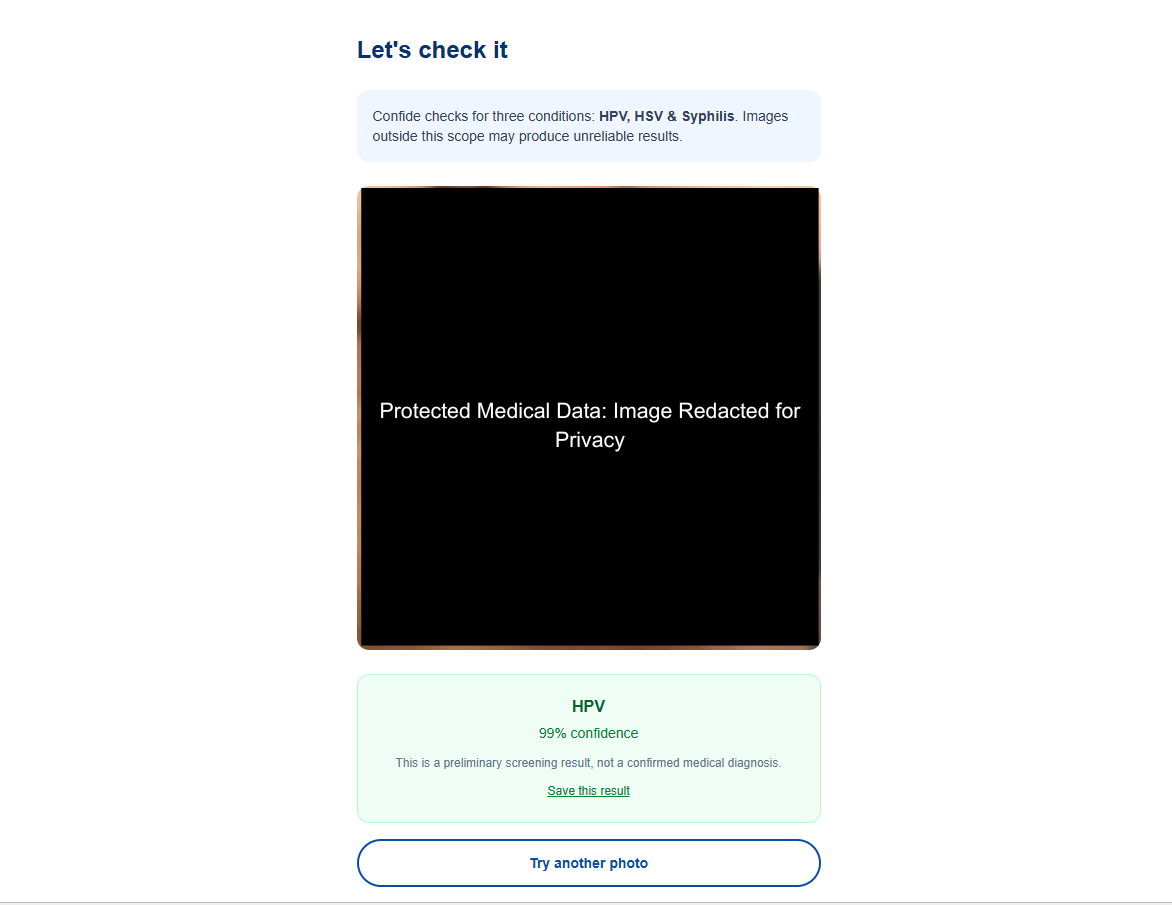
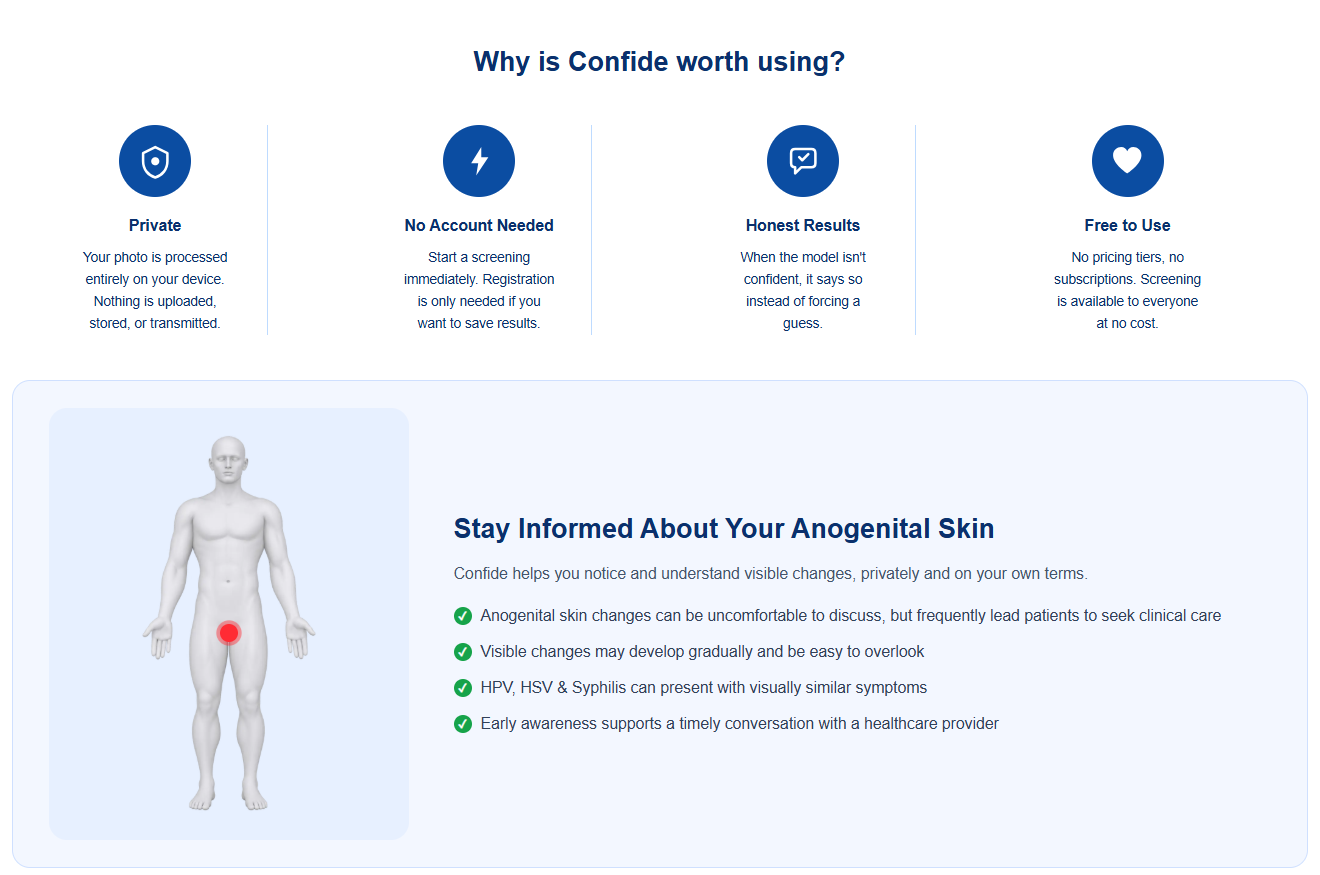
Update README to reflect GitHub Pages deployment; update project images

diff --git a/app/page.tsx b/app/page.tsx
@@ -354,15 +354,15 @@ export default function Home() {
               title="FIFA 2026 World Cup Bracket Challenge"
               desc="A full-stack prediction platform built with the MERN stack in TypeScript."
               tags={["MERN", "Typescript", "Docker","	football-data.org API"]}
-              projectImages={["/fifa1.jpg", "/fifa2.jpg", "/fifa3.jpg"]}
-              imageAlt="FixTrack project screenshots"
+              projectImages={["/fifa1.jpg", "/fifa2.png", "/fifa3.png","/fifa4.png"]}
+              imageAlt="FIFA 2026 World Cup Bracket Challenge project screenshots"
             />
             <ProjectCard
               title="Confide - Private STI Screening for Men"
               desc="A Privacy-Preserving Deep Learning System for Preliminary Visual Screening of Male Anogenital Sexually Transmitted Infections."
               tags={["Transfer Learning","Convolutional Neural Network", "FastAPI", "Tensorflow.js"]}
-              projectImages={["/confide1.png", "/confide2.png", "/confide3.png"]}
-              imageAlt="FixTrack project screenshots"
+              projectImages={["/confide1.png", "/confide2.png", "/confide3.png", "/confide4.png"]}
+              imageAlt="Confide project screenshots"
             />
             <ProjectCard
               title="FixTrack - Vehicle Service Platform"
@@ -385,15 +385,7 @@ export default function Home() {
               projectImages={["/soc1.png", "/soc2.png", "/soc3.png","/soc4.png"]}
               imageAlt="SPC Pharmacy Network project screenshots"
             />
-
-            <ProjectCard
-              title="LuxeVista Resort - Mobile App (Android studio)"
-              desc="Mobile app concept for resort browsing, booking support, and smoother user experience "
-              tags={[ "Java", "XML", "MySQL"]}
-              projectImages={["/luxe1.jpg", "/luxe2.jpg"]}
-              imageAlt="LuxeVista Resort project screenshots"
-            />
-
+            
             <ProjectCard
               title="FitZone Fitness Center - Web App"
               desc="Web application for fitness center operations and member-facing features."
@@ -416,7 +408,7 @@ export default function Home() {
           <p className="bg-gradient-to-r from-white to-cyan-400 bg-clip-text font-semibold text-white transition group-hover:text-transparent">
             BSc (Hons) in Software Engineering (Reading)
           </p>
-          <p className="text-sm text-zinc-500">Cardiff Metropolitan Unviversity (Reading) </p>
+          <p className="text-sm text-zinc-500">Cardiff Metropolitan University (Reading) </p>
         </div>
       </div>
 
@@ -427,7 +419,7 @@ export default function Home() {
         <p className="bg-gradient-to-r from-white via-pink-400 to-cyan-400 bg-clip-text font-semibold text-white transition group-hover:text-transparent">
           HND in Computing & Software Engineering
         </p>
-          <p className="text-sm text-zinc-500">Cardiff Metropolitan Unviversity </p>
+          <p className="text-sm text-zinc-500">Cardiff Metropolitan University </p>
         </div>
       </div>
 

diff --git a/README.md b/README.md
@@ -1,37 +1,36 @@
 **Personal Portfolio Website**
-
+ 
 This repository contains the source code for my professional portfolio website. It serves as a central hub to showcase my technical skills, personal projects, and professional journey as a developer.
-
-[![Vercel](https://img.shields.io/badge/Live_Demo-000000?style=for-the-badge&logo=vercel&logoColor=white)](https://nisith-portfolio.vercel.app/)
-
+ 
+[![Live Site](https://img.shields.io/badge/Live_Demo-000000?style=for-the-badge&logo=githubpages&logoColor=white)](https://nisithsaranga.dev/)
+ 
 **🚀 Overview**
-
+ 
 The goal of this project was to create a fast, responsive, and modern portfolio that reflects my focus on clean UI/UX and efficient frontend code. It highlights my expertise in building interactive web experiences and managing end-to-end development.
-
+ 
 **🛠 Tech Stack**
-
-Frontend: Next.js with TypeSccript
-
+ 
+Frontend: Next.js with TypeScript
+ 
 Styling: Tailwind CSS 
-
-Deployment: Vercel (CI/CD integrated with GitHub)
-
+ 
+Deployment: GitHub Pages (custom domain, CI/CD via GitHub Actions)
+ 
 Tools: NPM, Git, VS Code
-
+ 
 **✨ Key Features**
-
+ 
 Responsive Design: Fully optimized for mobile, tablet, and desktop screens.
-
+ 
 Project Showcase: A curated gallery of my work with links to live demos and source code.
-
+ 
 Interactive Elements: Smooth navigation and interactive UI components built with JavaScript.
-
+ 
 Contact Integration: A dedicated section for professional inquiries and social links.
-
+ 
 **📬 Contact**
-
+ 
 I'm always open to discussing new projects, creative ideas, or opportunities to be part of your vision.
-
+ 
 [![LinkedIn](https://img.shields.io/badge/LinkedIn-0077B5?style=for-the-badge&logo=linkedin&logoColor=white)](https://www.linkedin.com/in/nisith-saranga-0529732a5/)
 [![Gmail](https://img.shields.io/badge/Email-D14836?style=for-the-badge&logo=gmail&logoColor=white)](mailto:nisithsaranga13@gmail.com)
-
